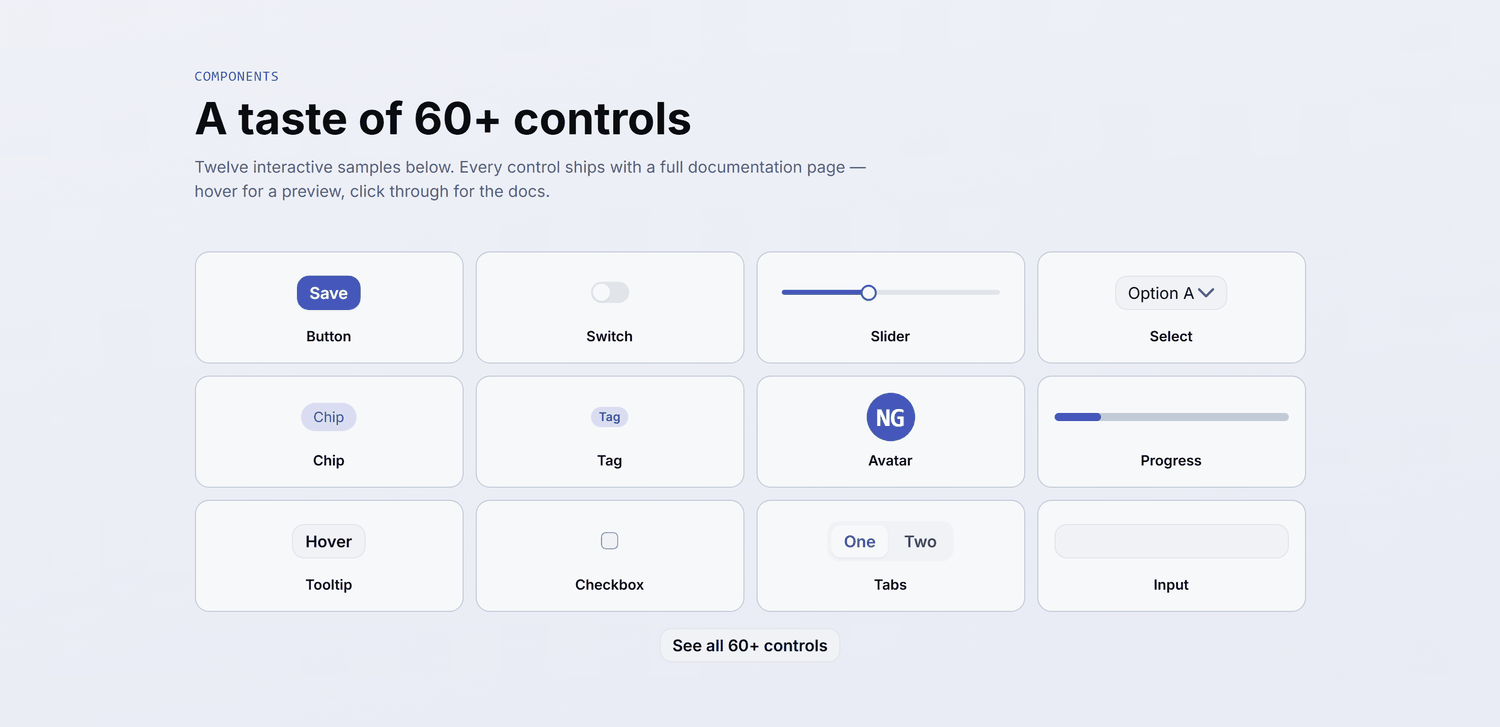
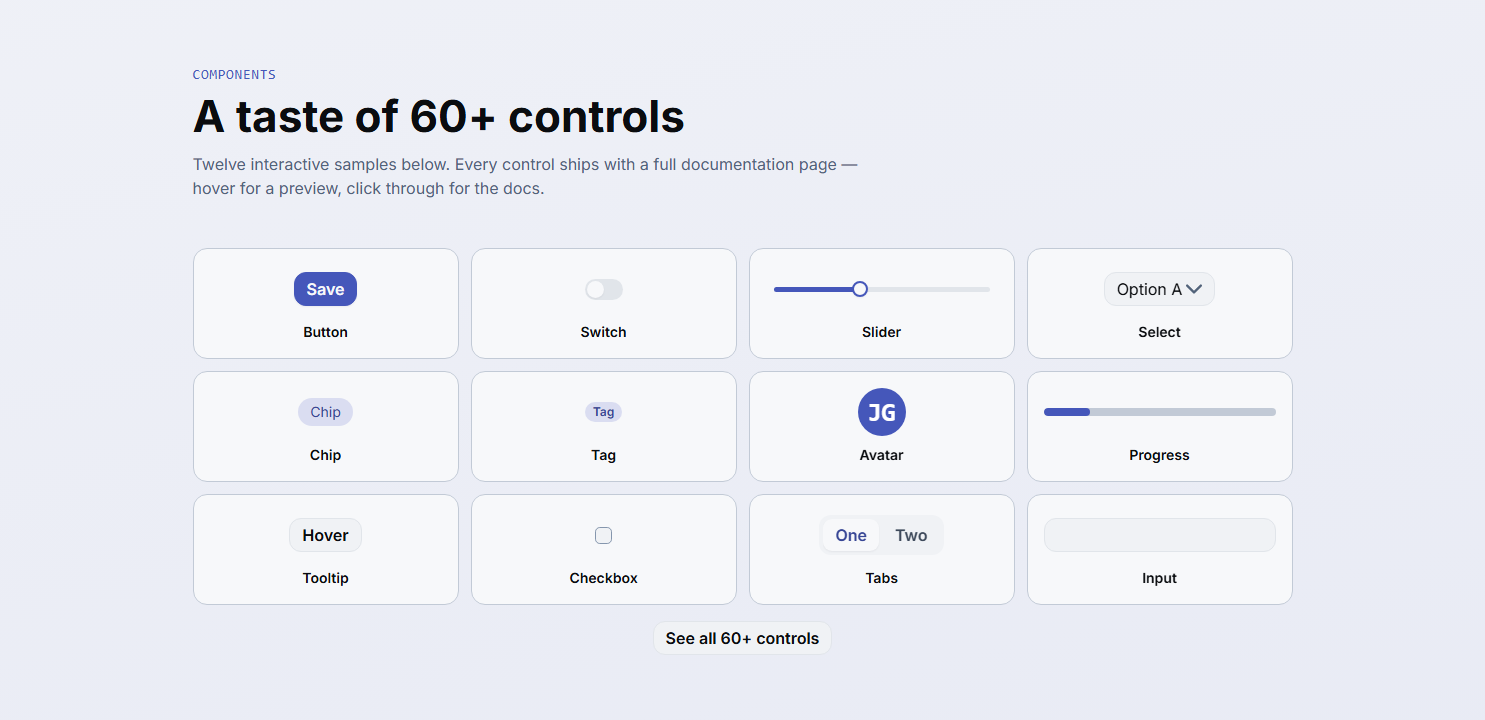
chore: finishing repo setup / updating screenshots

diff --git a/.github/assets/social-preview.html b/.github/assets/social-preview.html
@@ -1,0 +1,152 @@
+<meta charset="utf-8" />
+<style>
+  @font-face {
+    font-family: 'Inter Variable';
+    src: url('../../apps/docs/node_modules/@fontsource-variable/inter/files/inter-latin-wght-normal.woff2')
+      format('woff2-variations');
+    font-weight: 100 900;
+  }
+
+  * {
+    margin: 0;
+    padding: 0;
+    box-sizing: border-box;
+  }
+
+  body {
+    width: 1280px;
+    height: 640px;
+    overflow: hidden;
+    background: #08080f;
+    color: #fff;
+    font-family: 'Inter Variable', system-ui, sans-serif;
+    -webkit-font-smoothing: antialiased;
+  }
+
+  .glow {
+    position: absolute;
+    inset: 0;
+    background:
+      radial-gradient(60% 55% at 18% 22%, rgb(233 4 100 / 22%), transparent 70%),
+      radial-gradient(55% 60% at 82% 88%, rgb(133 20 245 / 22%), transparent 70%);
+  }
+
+  .grid {
+    position: absolute;
+    inset: 0;
+    opacity: 0.5;
+    background-image:
+      linear-gradient(rgb(255 255 255 / 3%) 1px, transparent 1px),
+      linear-gradient(90deg, rgb(255 255 255 / 3%) 1px, transparent 1px);
+    background-size: 64px 64px;
+    mask-image: radial-gradient(70% 70% at 50% 40%, #000, transparent);
+  }
+
+  main {
+    position: relative;
+    display: flex;
+    height: 100%;
+    flex-direction: column;
+    justify-content: center;
+    padding: 76px 80px;
+  }
+
+  .eyebrow {
+    font-family: Consolas, Menlo, monospace;
+    font-size: 20px;
+    font-weight: 500;
+    color: #8b8ba7;
+    letter-spacing: 0.22em;
+  }
+
+  .row {
+    display: flex;
+    align-items: center;
+    gap: 44px;
+    margin-top: 26px;
+  }
+
+  img {
+    width: 196px;
+    height: 196px;
+    filter: drop-shadow(0 0 44px rgb(233 4 100 / 35%));
+  }
+
+  h1 {
+    white-space: nowrap;
+    font-size: 76px;
+    font-weight: 800;
+    line-height: 0.98;
+    letter-spacing: -0.035em;
+  }
+
+  h1 span {
+    background: linear-gradient(100deg, #e90464, #f736e3 45%, #8514f5);
+    -webkit-background-clip: text;
+    -webkit-text-fill-color: transparent;
+  }
+
+  p {
+    max-width: 780px;
+    margin-top: 22px;
+    font-size: 27px;
+    font-weight: 400;
+    line-height: 1.45;
+    color: #b6b6cc;
+  }
+
+  footer {
+    position: absolute;
+    right: 80px;
+    bottom: 0;
+    left: 80px;
+    display: flex;
+    align-items: center;
+    justify-content: space-between;
+    padding: 26px 0 46px;
+    border-top: 1px solid rgb(255 255 255 / 8%);
+  }
+
+  .stats {
+    display: flex;
+    gap: 46px;
+    font-family: Consolas, Menlo, monospace;
+    font-size: 20px;
+    color: #8b8ba7;
+  }
+
+  .stats b {
+    font-weight: 700;
+    color: #fff;
+  }
+
+  .site {
+    font-size: 23px;
+    font-weight: 600;
+    color: #fff;
+  }
+</style>
+
+<div class="glow"></div>
+<div class="grid"></div>
+
+<main>
+  <div class="eyebrow">@AWDLAB/JIG</div>
+  <div class="row">
+    <img src="../../apps/docs/public/img/logo.png" alt="" />
+    <div>
+      <h1>60+ Angular controls,<br /><span>signals-native</span></h1>
+      <p>Zoneless, accessible, themeable — zero component CSS.</p>
+    </div>
+  </div>
+</main>
+
+<footer>
+  <div class="stats">
+    <div><b>60+</b> controls</div>
+    <div><b>0</b> zones</div>
+    <div><b>AA</b> wcag 2.2</div>
+    <div><b>100%</b> typed</div>
+  </div>
+  <div class="site">jig.awdlab.dev</div>
+</footer>

diff --git a/apps/docs/src/app/start/sections/component-gallery-section.ts b/apps/docs/src/app/start/sections/component-gallery-section.ts
@@ -195,7 +195,7 @@ export class JigDocsComponentGallerySection {
   protected readonly buttonState = signal<undefined | 'loading' | 'success'>(undefined);
   protected readonly chipColor = signal<CustomColor | undefined>(undefined);
   protected readonly tagColor = signal<CustomColor | undefined>(undefined);
-  protected readonly avatarInitials = signal('NG');
+  protected readonly avatarInitials = signal('JG');
   protected readonly avatarColor = signal<string | undefined>(undefined);
   protected readonly activeTab = signal('a');
   protected readonly inputValue = signal('');
@@ -291,7 +291,7 @@ export class JigDocsComponentGallerySection {
         this.tagColor.set(undefined);
         break;
       case 'Avatar':
-        this.avatarInitials.set('NG');
+        this.avatarInitials.set('JG');
         this.avatarColor.set(undefined);
         break;
       case 'Tabs':

diff --git a/.github/PULL_REQUEST_TEMPLATE.md b/.github/PULL_REQUEST_TEMPLATE.md
@@ -11,7 +11,7 @@ Closes #
 
 ## Control parts touched
 
-<!-- A control spans seven parts. Tick what this PR updates, and delete the ones
+<!-- A control spans eight parts. Tick what this PR updates, and delete the ones
      that genuinely do not apply. -->
 
 - [ ] Control source (`packages/controls/src/…`)
@@ -19,6 +19,7 @@ Closes #
 - [ ] Base theme part
 - [ ] Themed parts (nova / shade / material)
 - [ ] Tests (`tests/components/…`)
+- [ ] Playwright harnesses (`packages/playwright/src/components/…`)
 - [ ] Docs page (`index.md`, `api.md`, `a11y.md`, i18n tab)
 - [ ] Demos
 
@@ -29,7 +30,7 @@ Closes #
 - [ ] Tests cover the changed behaviour
 - [ ] Keyboard interaction verified, and `a11y.md` updated if it changed
 - [ ] Public classes carry `@category control` / `@category directive`
-- [ ] Changeset added (`pnpm exec awesome-publish changeset`) for user-facing changes
+- [ ] Changeset added (`pnpm changeset`) for user-facing changes
 
 ## Breaking changes
 
@@ -39,4 +40,5 @@ None.
 
 ## Screenshots
 
-<!-- For anything visual, before/after in both light and dark mode. -->
+<!-- For anything visual, before/after in addition to the
+     changed / new visual regression test snapshots -->

diff --git a/CONTRIBUTING.md b/CONTRIBUTING.md
@@ -119,7 +119,7 @@ the source from that path to render the code view.
 - Every user-facing change needs a **changeset**; CI fails the PR without one:
 
   ```bash
-  pnpm exec awesome-publish changeset
+  pnpm changeset
   ```
 
   Pick the affected packages and a bump level, and describe the change from a
@@ -135,7 +135,7 @@ Before opening one:
 3. Tests for the behaviour you changed, and the e2e spec for that control.
 4. A changeset, if the change is user-facing.
 
-Keep PRs focused. A rename that touches all seven parts of one control is a
+Keep PRs focused. A rename that touches all eight parts of one control is a
 good PR; a rename across twelve controls plus a refactor is three PRs.
 
 ## Reporting bugs and requesting features
